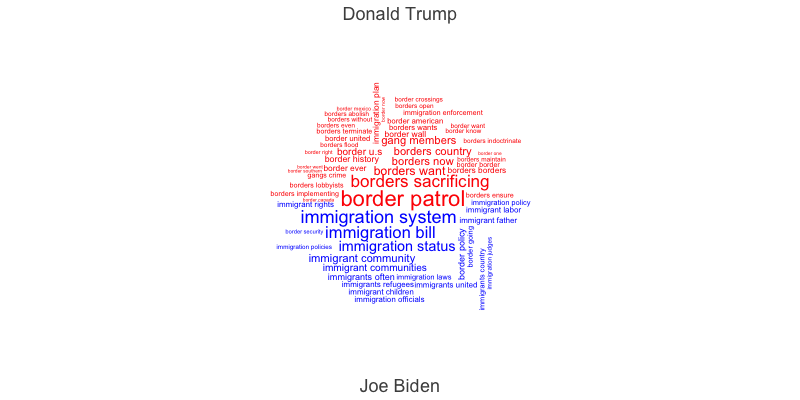
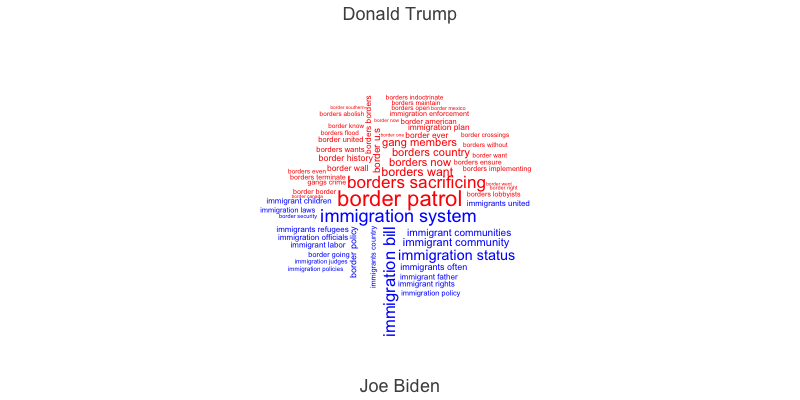
figures

Changed region(s): [[0.3125, 0.21, 0.6562, 0.84]]

diff --git a/posts/blog_10.md b/posts/blog_10.md
@@ -76,9 +76,54 @@ Moreover, the [Trump campaign](https://www.nbcnews.com/news/latino/trump-cultiva
 
 ![](../images/10_arizona_comp.png)
 
-Arizona, like Florida, had blue counties lose some of their vote share to Trump though they remained blue. As border counties, perhaps these were groups of voters that likes Trump's "law and order" and secure border agenda. 
+Arizona, like Florida, had blue counties lose some of their vote share to Trump. As border counties, perhaps these were groups of voters that liked Trump's "law and order"/secure border agenda. 
 
 It is worth noting that Arizona, which unlike Florida, remained blue and had [exceptional ground outreach](https://www.nbcnews.com/news/latino/years-making-established-latino-groups-helped-biden-arizona-nevada-n1246864) by the Biden campaign among Hispanic voters in relation to other states with large Hispanic populations. There were also established outreach networks already in place in Arizona as well as Nevada that mobilized in support of the Biden campaign. 
+
+## So what happened?
+So far I've established that while Biden still won most Hispanic-majority counties and Democrats do fairly well in these places, Trump did take a sizeable chunk out of the blue win margin. I propose two possible reasons for this (which I briefly mentioned above in my state-by-state analysis):
+1. Trump's rhetoric aligned with different Hispanic communities 
+2. Trump's ground game and ad campaigns were more effective and better tailored towards different Hispanic communities
+
+### Rhetoric
+Trump's relative success with Hispanic populations may be linked to his emphasis on issues that align with these populations' values. For instance it is thought that Trump's fear-mongering around Biden's potential socialist agenda drove up Republican support in Florida where many Cuban and Venezuelan immigrants have settled. 
+
+#### Southern Florida
+Using a word cloud of words and phrases used in Biden and Trump's campaign speeches, it becomes clear that Trump places a greater emphasis on socialism and communism throughout his speeches: 
+
+![](../images/10_socialist_wc.png)
+<br>
+![](../images/10_socialist_plot.png)
+
+Overall, Trump also spoke more to issues around socialism and socialist regimes in places like Cuba, Venezuela, and Nicaragua than Biden:
+
+![](../images/10_castro_wc.png)
+<br>
+![](../images/10_castro_plot.png)
+
+#### Border Communities
+While this rhetoric certainly resonated with south Florida residents, what about Hispanic populations in the Rio Grande Valley who are of predominantly Mexican descent? Did something about Trump's rhetoric especially resonate with them? I hypothesize that his "law and order"/border security agenda appealed to border communities experiencing border-related crime. 
+
+![](../images/10_border_wc.png)
+<br>
+![](../images/10_border_plot.png)
+
+In this case, Biden did not necessarily speak less about the topic of the border and immigration, but his rhetoric was completely different. While Trump emphasized border security, a wall, and gang violence, Biden spoke mostly about immigration reform and immigrant rights. Given that Biden's vote share was smaller than Clinton's in 2016 in these counties, it's reasonable to believe that these are communities that value "border security" before reform. 
+
+This may have also been the case in border counties in Arizona and New Mexico which also saw shrinking vote shares on Democrats in Hispanic-majority communities (though Biden won both states). These are also predominantly Mexican communities. 
+
+Perhaps the strongest evidence for Trump's rhetorical success on the border is in Imperial County on California's southern border. While most other Hispanic-majority counties in California either increased their democratic vote share or stayed around the same, this 80% Hispanic county on the US-Mexican border increased its vote share for Trump since 2016. This implies that something about Trump's border rhetoric appealed to more members of this community than it did in 2016 (though it did vote blue in the end). 
+
+![](../images/10_cali_comp.png)
+
+Overall, most Hispanic-majority border counties across Texas, New Mexico, and Arizona remained blue (see first map). However, **each of these counties saw a contraction in the Democratic victory margin since 2016.**
+
+### Campaign Resources 
+
+
+
+
+
 
 
 
